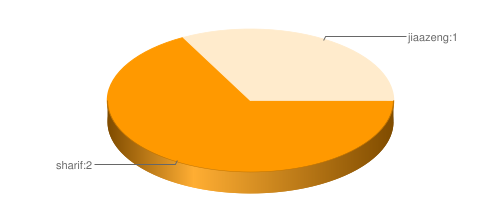
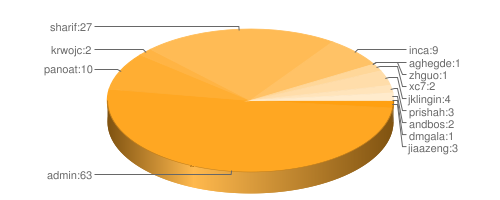
verified functionality of logic to interface with db

diff --git a/log-analyzer/futuregrid/eucalyptus/analyzer/sample.html b/log-analyzer/futuregrid/eucalyptus/analyzer/sample.html
@@ -14,6 +14,6 @@
 
         <hr>
         <address>Author Gregor von Laszewski, laszewski@gmail.com</address>
-        <!-- hhmts start -->Last modified: 2012-2-16 16:19:5 <!-- hhmts end -->
+        <!-- hhmts start -->Last modified: 2012-2-16 18:16:35 <!-- hhmts end -->
         </body> </html>
     

diff --git a/log-analyzer/futuregrid/eucalyptus/analyzer/fg-parser.py b/log-analyzer/futuregrid/eucalyptus/analyzer/fg-parser.py
@@ -595,14 +595,24 @@ def test_sql_write(filename,progress=True, debug=False):
     instances.calculate_delta ()
     instances.write_to_db()
 
+def display(users):
+    display_user_stats (users, filename="a.png")
+    display_user_stats (users, type="bar", filename="b.png")
+    make_html("sample.html", "VMs used by users")
+    os.system ("open sample.html")
+
+
 def test_user_stats():
     users = {}
     instances.calculate_user_stats (users)
+    instances.write_to_db()
     print pp.pprint(users)
-
+    display(users)
+    """
     users = {}
     instances.calculate_user_stats (users, "2011-11-06 00:13:15", "2011-11-08 14:13:15")
     instances.write_to_db()
+    display(users)
 
     print pp.pprint(users)
 
@@ -612,17 +622,30 @@ def test_user_stats():
     b = datetime.strptime("2011-11-08 14:13:15",'%Y-%m-%d %H:%M:%S')
         
     instances.calculate_user_stats (users, a, b)
-    
+    instances.write_to_db()
     print pp.pprint(users)
-    
-    display_user_stats (users, filename="a.png")
-    display_user_stats (users, type="bar", filename="b.png")
-    make_html("sample.html", "VMs used by users")
-    os.system ("open sample.html")
+    display(users)
+    """
 
     return
 
+def read_all_log_files_and_store_to_db (path):
+    """
+    we assume thet the dir has only files of the form. All files have been gathere there from the fg-unix command
+    <name>.log
+    # hungruies job
+    """
+    listing = os.listdir(path)
+    count = 0
+    for filename in listing:
+        count =+ 1
+        print "Processing file is: " + filename
+        parse_file (path + "/" + filename,instances.add,debug=False,progress=True)
+    instances.calculate_delta ()
+    instances.write_to_db()
 
+
+    
 def main():
 
 
@@ -643,15 +666,23 @@ def main():
     #    test_file_read("/tmp/cc.log.4",progress=True)
     #    test_file_read("/tmp/cc.log.prints_cc",progress=False, debug=False)
 
-    #    test_file_read("/tmp/cc.log.prints_cc",progress=True, debug=True)
+    # ONLY FILE READ TEST
 
+    # test_file_read("/tmp/cc.log.prints_cc",progress=True, debug=True)
+    # test_user_stats()
 
-
-    test_sql_write("/tmp/cc.log.prints_cc",progress=True, debug=True)
+    # SQL TEST
     
+    test_sql_write("/tmp/cc.log.prints_cc",progress=True, debug=True)
     test_sql_read()
-
     test_user_stats()
 
+    # MONSTER TEST
+
+    dir_path = os.getenv("HOME") + "/Desktop/BACKUP"
+    #    read_all_log_files_and_store_to_db (dir_path)
+    test_sql_read()
+    test_user_stats()
+    
 if __name__ == "__main__":
     main()

diff --git a/log-analyzer/futuregrid/eucalyptus/analyzer/FGEucaMetricsDB.py b/log-analyzer/futuregrid/eucalyptus/analyzer/FGEucaMetricsDB.py
@@ -223,15 +223,15 @@ class FGEucaMetricsDB(object):
                                     + self._fmtstr(" ".join(entryObj["groupNames"])) + "," \
                                     + self._fmtstr(entryObj["keyName"]) + "," \
                                     + self._fmtstr(entryObj["msgtype"]) + "," \
-                                    + entryObj["volumesSize"] + "," \
+                                    + str(entryObj["volumesSize"]) + "," \
                                     + self._fmtstr(entryObj["linetype"]) + "," \
                                     + self._fmtstr(entryObj["ownerId"]) + "," \
                                     + self._fmtstr(str(entryObj["date"])) + "," \
-                                    + entryObj["id"] + "," \
-                                    + entryObj["ncHostIdx"] + "," \
-                                    + entryObj["ccvm"]["mem"] + "," \
-                                    + entryObj["ccvm"]["cores"] + "," \
-                                    + entryObj["ccvm"]["disk"] + "," \
+                                    + str(entryObj["id"]) + "," \
+                                    + str(entryObj["ncHostIdx"]) + "," \
+                                    + str(entryObj["ccvm"]["mem"]) + "," \
+                                    + str(entryObj["ccvm"]["cores"]) + "," \
+                                    + str(entryObj["ccvm"]["disk"]) + "," \
                                     + self._fmtstr(entryObj["emiId"]) + "," \
                                     + self._fmtstr(entryObj["ccnet"]["publicIp"]) + "," \
                                     + self._fmtstr(entryObj["ccnet"]["privateMac"]) + "," \
@@ -243,7 +243,7 @@ class FGEucaMetricsDB(object):
                                     + self._fmtstr(entryObj["kernelURL"]) + "," \
                                     + self._fmtstr(entryObj["ramdiskId"]) + "," \
                                     + self._fmtstr(" ".join(entryObj["volumes"])) + "," \
-                                    + entryObj["launchIndex"] + "," \
+                                    + str(entryObj["launchIndex"]) + "," \
                                     + self._fmtstr(entryObj["reservationId"]) + ")"
         #print wquery
         try:

diff --git a/log-analyzer/futuregrid/eucalyptus/analyzer/.#fg-unix.py b/log-analyzer/futuregrid/eucalyptus/analyzer/.#fg-unix.py
@@ -1,0 +1,1 @@
+gregor@129-79-49-75.dhcp-bl.indiana.edu.24007
